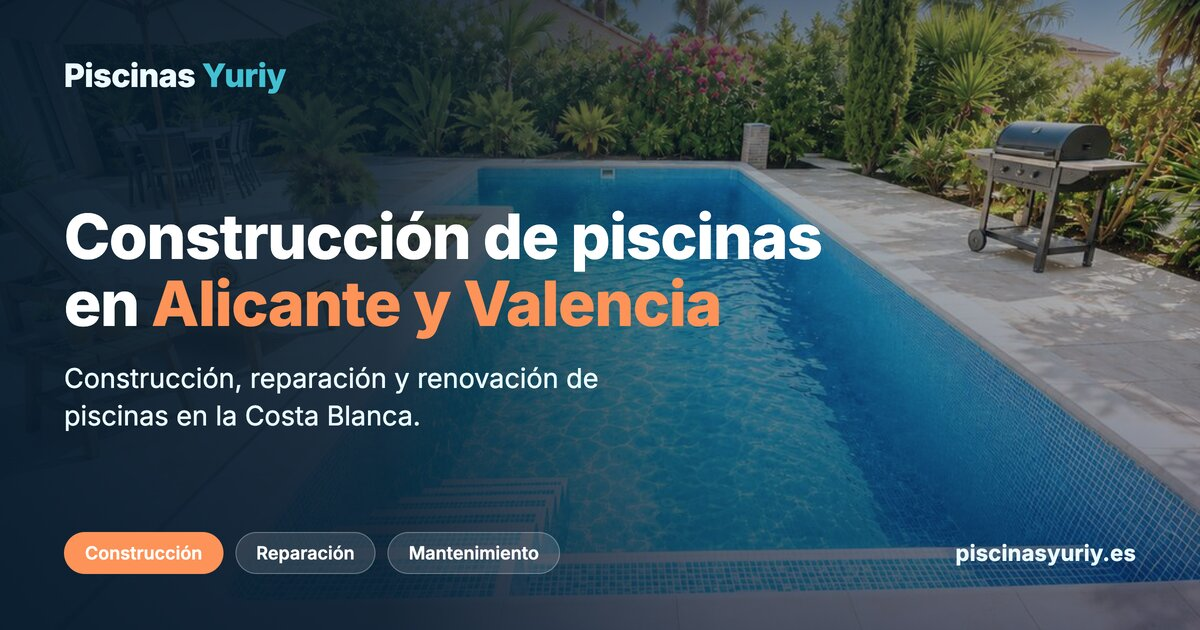
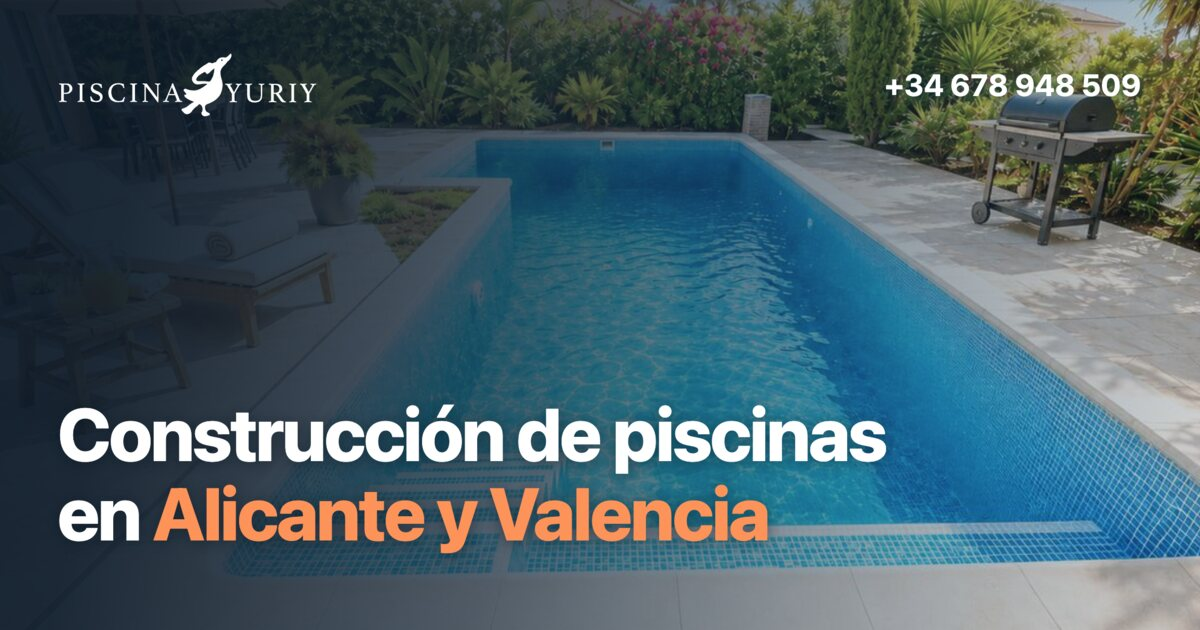
Refactor code structure for improved readability and maintainability

diff --git a/index.html b/index.html
@@ -25,14 +25,14 @@
     <meta property="og:locale" content="es_ES" />
     <meta
       property="og:image"
-      content="https://piscinasyuriy.es/assets/og-image.jpg"
+      content="https://piscinasyuriy.es/assets/og-image.jpg?v=20260905-4"
     />
     <meta property="og:image:type" content="image/jpeg" />
     <meta property="og:image:width" content="1200" />
     <meta property="og:image:height" content="630" />
     <meta
       property="og:image:alt"
-      content="Piscina de obra terminada con la marca Piscinas Yuriy"
+      content="Piscina de obra terminada junto al reclamo «Construcción de piscinas en Alicante y Valencia» y el logotipo de Piscinas Yuriy"
     />
     <meta name="twitter:card" content="summary_large_image" />
     <meta
@@ -45,7 +45,7 @@
     />
     <meta
       name="twitter:image"
-      content="https://piscinasyuriy.es/assets/og-image.jpg"
+      content="https://piscinasyuriy.es/assets/og-image.jpg?v=20260905-4"
     />
     <!-- head-meta:end -->
     <link
